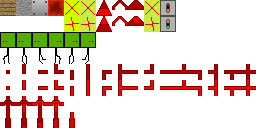
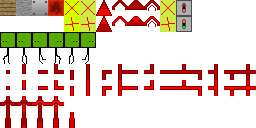
XOR gate.

Changed region(s): [[0.5625, 0.0, 0.75, 0.25]]

diff --git a/Game.cs b/Game.cs
@@ -99,6 +99,7 @@ namespace rotstein
                 case Tile.TKind.Repeater:
                 case Tile.TKind.OrGate:
                 case Tile.TKind.AndGate:
+                case Tile.TKind.XorGate:
                     // Gates
                     switch (Tiles[x, y].Kind)
                     {
@@ -138,6 +139,7 @@ namespace rotstein
                             break;
                         case Tile.TKind.OrGate:
                         case Tile.TKind.AndGate:
+                        case Tile.TKind.XorGate:
                             // Binary gate
                             Vector2u input_left = Tile.PickTileInDirection(v, Tile.TDirectionAdd(Tiles[x, y].Direction, Tile.TDirection.West));
                             System.Array.Clear(Prealloc_RedCheckedNodes, 0, Prealloc_RedCheckedNodes.Length); // Clear preallocated array before using it
@@ -148,10 +150,13 @@ namespace rotstein
                             switch (Tiles[x, y].Kind)
                             {
                                 case Tile.TKind.OrGate:
-                                    NextTiles[x, y].Activity = left || right;
+                                    NextTiles[x, y].Activity = left | right;
                                     break;
                                 case Tile.TKind.AndGate:
-                                    NextTiles[x, y].Activity = left && right;
+                                    NextTiles[x, y].Activity = left & right;
+                                    break;
+                                case Tile.TKind.XorGate:
+                                    NextTiles[x, y].Activity = left ^ right;
                                     break;
                             }
                             break;
@@ -304,6 +309,7 @@ namespace rotstein
                 case Tile.TKind.NotGate:
                 case Tile.TKind.OrGate:
                 case Tile.TKind.AndGate:
+                case Tile.TKind.XorGate:
                     return (Tile.TDirectionAdd(Tiles[x, y].Direction, Tile.TDirection.North) == direction) && Tiles[x, y].Activity;
                 case Tile.TKind.Repeater:
                     return (Tile.TDirectionAdd(Tiles[x, y].Direction, Tile.TDirection.North) == direction) && Tiles[x, y].Variant == 4;
@@ -331,6 +337,7 @@ namespace rotstein
                         (Tile.TDirectionAdd(tile.Direction, Tile.TDirection.South) == direction);
                 case Tile.TKind.OrGate:
                 case Tile.TKind.AndGate:
+                case Tile.TKind.XorGate:
                     return (Tile.TDirectionAdd(tile.Direction, Tile.TDirection.North) == direction) ||
                         (Tile.TDirectionAdd(tile.Direction, Tile.TDirection.East) == direction) ||
                         (Tile.TDirectionAdd(tile.Direction, Tile.TDirection.West) == direction);
@@ -350,7 +357,7 @@ namespace rotstein
 
             public TPlayer()
             {
-                Hotbar.Tiles = new Tile[11];
+                Hotbar.Tiles = new Tile[12];
                 Hotbar.Tiles[0] = new Tile(Tile.TKind.Planks);
                 Hotbar.Tiles[1] = new Tile(Tile.TKind.Stone);
                 Hotbar.Tiles[2] = new Tile(Tile.TKind.Iron);
@@ -360,8 +367,9 @@ namespace rotstein
                 Hotbar.Tiles[6] = new Tile(Tile.TKind.NotGate);
                 Hotbar.Tiles[7] = new Tile(Tile.TKind.OrGate);
                 Hotbar.Tiles[8] = new Tile(Tile.TKind.AndGate);
-                Hotbar.Tiles[9] = new Tile(Tile.TKind.Repeater);
-                Hotbar.Tiles[10] = new Tile(Tile.TKind.Lever);
+                Hotbar.Tiles[9] = new Tile(Tile.TKind.XorGate);
+                Hotbar.Tiles[10] = new Tile(Tile.TKind.Repeater);
+                Hotbar.Tiles[11] = new Tile(Tile.TKind.Lever);
             }
 
             public byte NextAnimationStep()
@@ -415,6 +423,7 @@ namespace rotstein
             NotGate,
             OrGate,
             AndGate,
+            XorGate,
             Repeater,
             Lever,
         }
